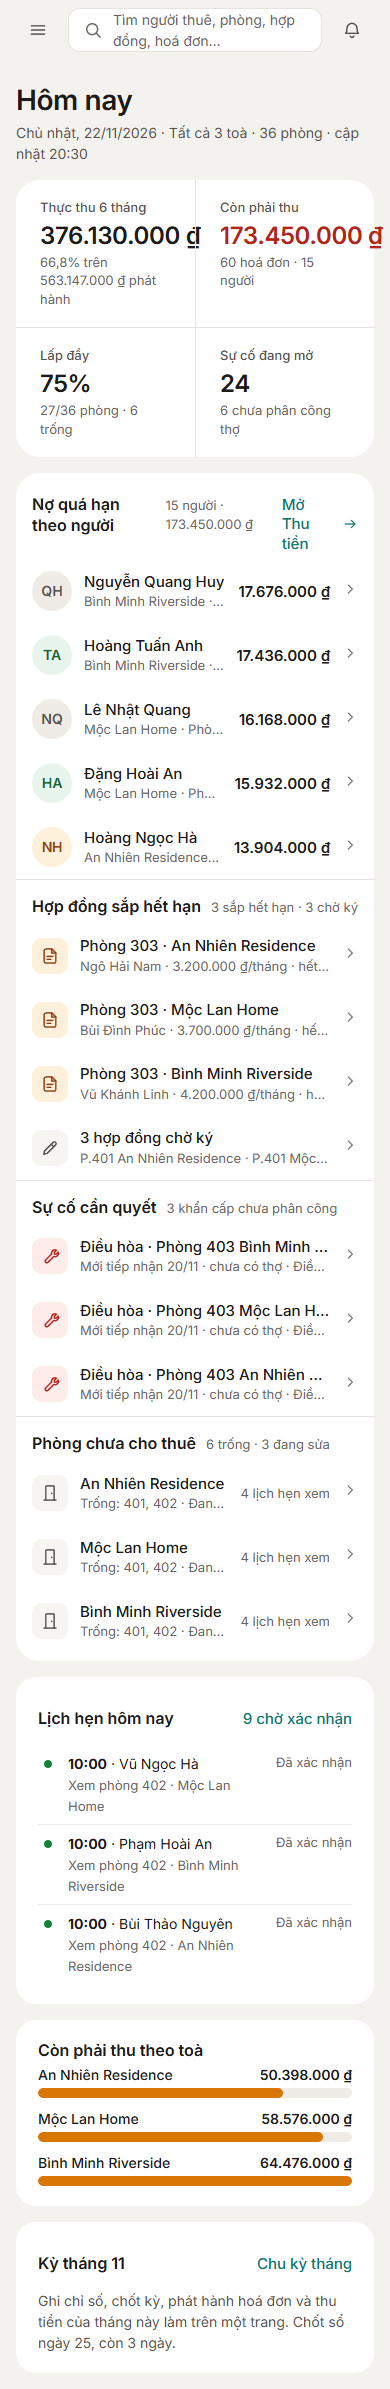
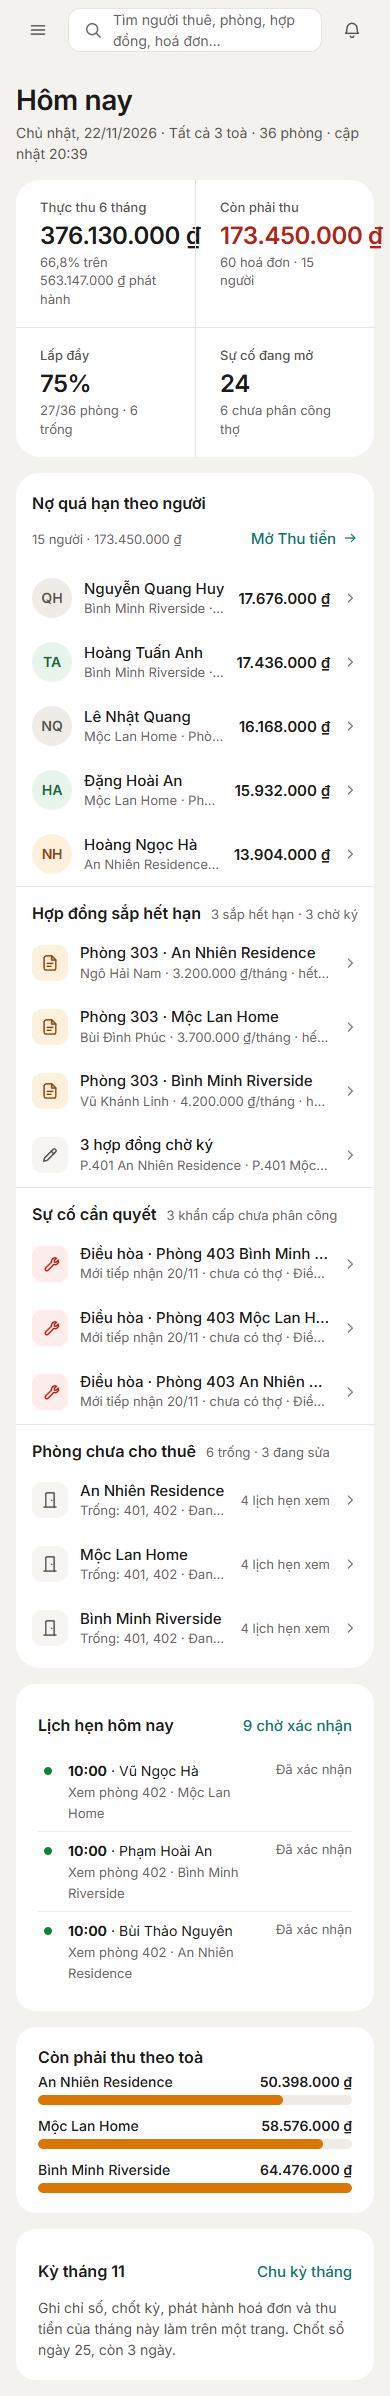
x2: Hôm nay 390 + ảnh 1440/390 + QA + báo cáo; sửa link bẻ dòng, bỏ khớp nhầm chữ ở App.test

diff --git a/frontend/src/App.test.tsx b/frontend/src/App.test.tsx
@@ -118,7 +118,7 @@ describe('App role navigation', () => {
     await vi.waitFor(() => {
       expect(mountedApp!.container.textContent).toContain('Phòng & người thuê')
       expect(mountedApp!.container.textContent).toContain('Vận hành')
-      expect(mountedApp!.container.textContent).toContain('được phân công')
+      expect(mountedApp!.container.querySelector('.sb-toa')).not.toBeNull() // trước đây khớp nhầm chữ "Tất cả toà được phân công" của QuanLyDashboard cũ; hộp toà cố định đã có test ở designComponents.test.tsx
     })
 
     expect(mountedApp.container.textContent).toContain('Quản lý toà nhà')

diff --git a/frontend/src/HomNay.css b/frontend/src/HomNay.css
@@ -22,3 +22,6 @@
     margin: calc(0px - var(--hn-dem)) calc(16px - var(--hn-dem)) calc(24px - var(--hn-dem));
   }
 }
+/* 390: tiêu đề khối + meta + link xuống dòng gọn, link không bị bẻ chữ */
+.hom-nay .sec-h { flex-wrap: wrap; row-gap: 2px; }
+.hom-nay .sec-h .push, .hom-nay .blk-h .push { white-space: nowrap; flex: none; }

diff --git a/docs/design/ui-redesign/ux-v2/shots/x2/BAO-CAO.md b/docs/design/ui-redesign/ux-v2/shots/x2/BAO-CAO.md
@@ -1,0 +1,41 @@
+# Báo cáo lô x2 — Hôm nay (Chủ + Quản lý)
+
+Nhánh `ui/x2-hom-nay`, tách từ `5d643c1`. Ảnh thật qua vite 5312 → backend 5190 (chỉ GET; POST duy nhất là đăng nhập của app-shot).
+
+## 1. Việc theo task
+- **T1 Chủ** `1d2c76d`: `HomNay.tsx` dựng `.ph` + `.strip` 4 ô + 4 khối `.sec` + cột phải; mỗi khối một nguồn riêng (`useNguon`): đang tải `.skel`, lỗi riêng có "Thử lại" + "Dữ liệu chưa bị thay đổi.", rỗng riêng có tick. Không có nút chính. `HomNay.css`, 4 test.
+- **T2 Quản lý** `85ffa3c`: dải số, Chu kỳ tháng (nút chính duy nhất "Ghi chỉ số" → `/chu-ky`), Việc cần làm (tự render `.irow` từ `fetchBangViecVanHanh`, không đụng `BangViecVanHanh`), Lịch hẹn + Cảnh báo điện nước lấy từ `fetchDashboardQuanLy` (đã có `lichHenSapToi`, `canhBaoDienNuoc` → không gọi thêm API). 2 test.
+- **T3 390 + ảnh + sửa lỗi nhìn thấy** (commit này): ảnh 1440/390, so prototype, sửa 2 lỗi (xem §3).
+
+## 2. Lệnh kiểm
+```
+npx tsc -b                      → 0 lỗi
+npx vitest run                  → Test Files 60 passed (60) · Tests 504 passed (504)   (trước lô: 498; +6 test mới)
+npx vitest run src/HomNay.test.tsx → Test Files 1 passed (1) · Tests 6 passed (6)
+npm run build                   → ✓ built
+git diff --stat 5d643c1...HEAD  → HomNay.tsx, HomNay.css, HomNay.test.tsx (+ App.test.tsx 1 dòng, shots/x2)
+```
+Đã gỡ thử mốc `<= 30` → `<= 31`: test hợp đồng đỏ (bắt được).
+
+## 3. Ảnh (`ux-v2/shots/x2/`, qa.json: overflow 0, belowHit 0, contrast.below 0, textBelowFloor 0 cho cả 6)
+| Mã | Đường dẫn · khung | Khác prototype |
+|---|---|---|
+| 01 | `01-chu-hom-nay-1440.png` | Lấp đầy ghi "27/36 phòng · 6 trống" (API `soPhongDangSua`=0 dù danh sách phòng có 3 đang sửa — dữ liệu backend lệch). Không có dòng "Không có báo giá nào chờ duyệt" (không có nguồn). "Kỳ tháng 11" là câu chung + ngày chốt, không có "còn 4 công tơ" (Chủ không có API này). Chờ ký trỏ `/hop-dong` (app chưa hỗ trợ `?loc=cho-ky`). "4 lịch hẹn xem" thay 5 (loại lịch đã huỷ). |
+| 01b | `01b-chu-mot-toa-1440.png` | Mộc Lan Home: mọi khối chỉ còn 1 toà, thanh "theo toà" 1 dòng. Không có prototype. |
+| 24 | `24-chu-hom-nay-390.png` | Dải 2×2, khối xếp dọc, cột phải xuống dưới, không cuộn ngang. Giống bản 24. |
+| 10 | `10-ql-hom-nay-1440.png` | Số khác do dữ liệu (sự cố 14 vs 12; dải ghi "đang mở trong toà" thay "3 gấp hoặc khẩn cấp" — API không có). Tên công tơ giữ "Điện sinh hoạt" (prototype rút gọn). |
+| 10 | `10-ql-hom-nay-390.png` | Xếp dọc, nút chính nhìn thấy, vùng bấm ≥44. |
+| 10 | `10-ql-nhac-viec-1440.png` | `/nhac-viec` tự về Hôm nay (menu "Hôm nay" sáng). |
+
+**Lỗi tự thấy và đã sửa:** (a) QL ở ≥768px bị đệm 40px của `App.tsx` (Chủ được đệm gọn `0 16px 24px`) → nội dung lệch phải/xuống 24/40px so với prototype: bù bằng margin âm trong `HomNay.css` (`.hom-nay-ql`). (b) 390: link "Mở chu kỳ" bị bẻ 3 dòng → `flex-wrap` + `nowrap`.
+
+## 4. Test cũ đã sửa
+- `App.test.tsx:121` ("FR-AUT-04 shows the manager shell…", **ngoài ma trận file**, 1 dòng): khẳng định `'được phân công'` thực ra khớp nhầm chữ "Tất cả toà được phân công" của `QuanLyDashboard` cũ (fixture trả 2 toà cho QL nên hộp toà không tĩnh). Đổi thành `.sb-toa` tồn tại; hộp toà tĩnh đã có test ở `designComponents.test.tsx:334`.
+
+## 5. Cố ý không làm / chưa kiểm / cần controller
+- **Cần controller (App.tsx, ngoài file tôi):** cho Quản lý dùng chung đệm với Chủ ở `hom-nay` (`laDashboardChu` chỉ tính `CHU`). Khi sửa xong thì xoá khối `@media … .hom-nay-ql` cuối `HomNay.css`, nếu không sẽ lệch ngược.
+- Khung x0: **không thấy** TabTrang phía trên tiêu đề trong ảnh Chủ/QL (không có tab nào hiện), nên không có chênh lệch để ghi. Chuông QL: huy hiệu "25" chồng lên chuông (khung/x7, không sửa).
+- Dấu chấm bước 3–4 của Chu kỳ tháng QL không có nguồn dữ liệu (chỉ biết bước 1 từ số công tơ) → để xám; có ghi chú `shortcut:` trong code.
+- Không sửa `QuanLyDashboard.tsx`/`BangViecVanHanh.tsx` (còn dùng ở `App.tsx`/đã không còn gắn vào Hôm nay); test của chúng nguyên vẹn.
+- Chưa kiểm: trạng thái lỗi/rỗng trên app thật (chỉ bằng test mock); ảnh 1180/1024; chọn toà QL khác (demo chỉ có 1 toà).
+- Dev server 5312 đã tắt.
